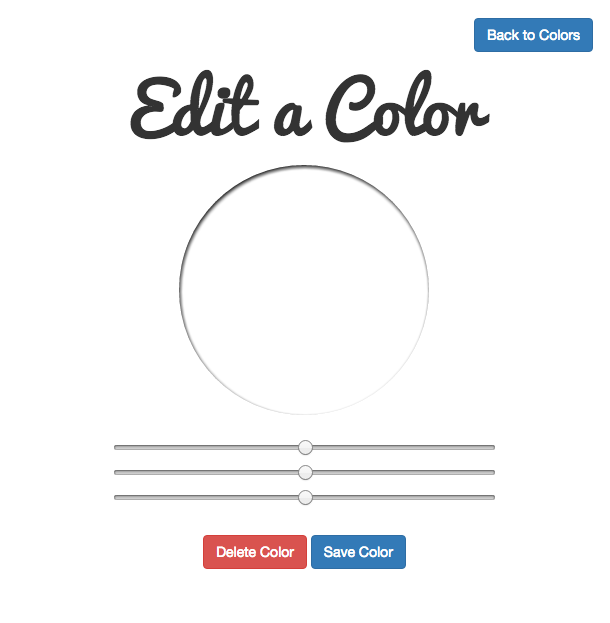
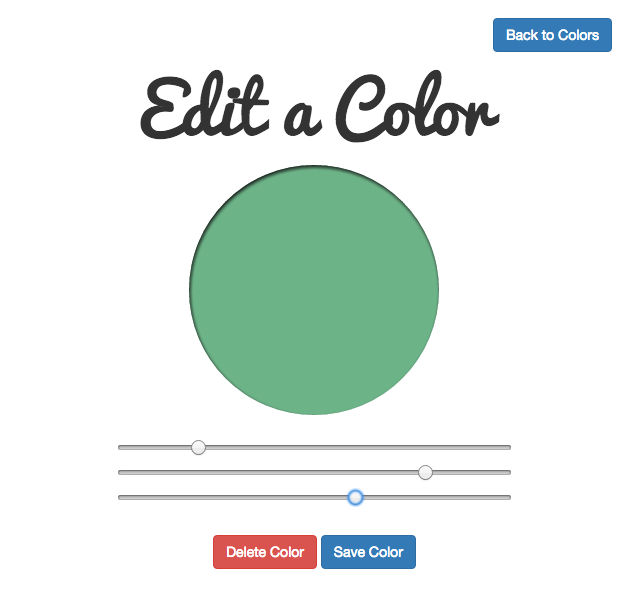
update comps

Changed region(s): [[0.1869, 0.0933, 0.8098, 0.6841], [0.1869, 0.7152, 0.8098, 0.9329], [0.7787, 0.0311, 0.9656, 0.0933]]

diff --git a/edit.html b/edit.html
@@ -15,6 +15,7 @@
   <link rel="stylesheet" href="https://maxcdn.bootstrapcdn.com/bootstrap/3.3.6/css/bootstrap.min.css" integrity="sha384-1q8mTJOASx8j1Au+a5WDVnPi2lkFfwwEAa8hDDdjZlpLegxhjVME1fgjWPGmkzs7" crossorigin="anonymous">
   <!-- This links our stylesheet so we can add custom css -->
   <link rel="stylesheet" href="styles.css">
+  <!-- This adds the fancy font we use for headings -->
   <link href='https://fonts.googleapis.com/css?family=Pacifico' rel='stylesheet' type='text/css'>
 </head>
 
@@ -29,13 +30,13 @@
     </div>
     <div class="row">
       <div class="col-md-4 col-sm-6 col-xs-8 col-md-offset-4 col-sm-offset-3 col-xs-offset-2">
-        <div class="color-preview color-preview-lg"></div>
+        <div class="color-preview color-preview-lg" id="green"></div>
         <form>
           <input maxlenght="3" type="range" step=1 min=0 max=255 name="red-input" id="red-input"/>
           <input maxlenght="3" type="range" step=1 min=0 max=255 name="green-input" id="green-input"/>
           <input type="range" step=1 min=0 max=255 name="blue-input" id="blue-input"/>
           <button class="btn btn-danger form-button">Delete Color</button>
-          <button class="btn btn-primary form-button">Save Color</button>
+          <input type="submit" class="btn btn-primary form-button" value="Save Color">
         </form>
       </div>
     </div>

diff --git a/new.html b/new.html
@@ -15,6 +15,7 @@
   <link rel="stylesheet" href="https://maxcdn.bootstrapcdn.com/bootstrap/3.3.6/css/bootstrap.min.css" integrity="sha384-1q8mTJOASx8j1Au+a5WDVnPi2lkFfwwEAa8hDDdjZlpLegxhjVME1fgjWPGmkzs7" crossorigin="anonymous">
   <!-- This links our stylesheet so we can add custom css -->
   <link rel="stylesheet" href="styles.css">
+  <!-- This adds the fancy font we use for headings -->
   <link href='https://fonts.googleapis.com/css?family=Pacifico' rel='stylesheet' type='text/css'>
 </head>
 
@@ -34,7 +35,7 @@
           <input maxlenght="3" type="range" step=1 min=0 max=255 name="red-input" id="red-input"/>
           <input maxlenght="3" type="range" step=1 min=0 max=255 name="green-input" id="green-input"/>
           <input type="range" step=1 min=0 max=255 name="blue-input" id="blue-input"/>
-          <button class="btn btn-primary form-button">Save Color</button>
+          <input type="submit" class="btn btn-primary form-button" value="Save Color">
         </form>
       </div>
     </div>

diff --git a/index.html b/index.html
@@ -15,6 +15,7 @@
   <link rel="stylesheet" href="https://maxcdn.bootstrapcdn.com/bootstrap/3.3.6/css/bootstrap.min.css" integrity="sha384-1q8mTJOASx8j1Au+a5WDVnPi2lkFfwwEAa8hDDdjZlpLegxhjVME1fgjWPGmkzs7" crossorigin="anonymous">
   <!-- This links our stylesheet so we can add custom css -->
   <link rel="stylesheet" href="styles.css">
+  <!-- This adds the fancy font we use for headings -->
   <link href='https://fonts.googleapis.com/css?family=Pacifico' rel='stylesheet' type='text/css'>
 </head>
 
